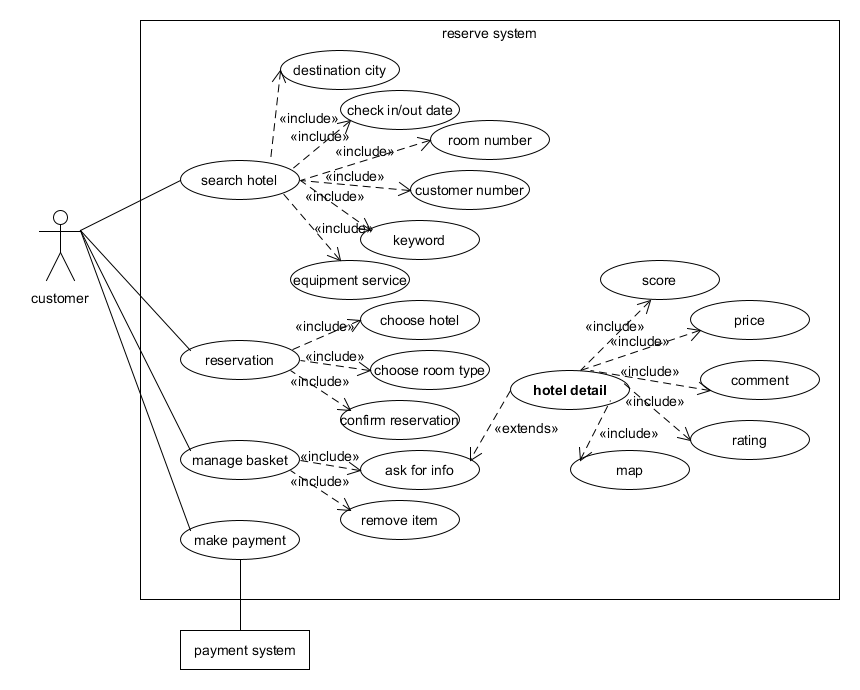
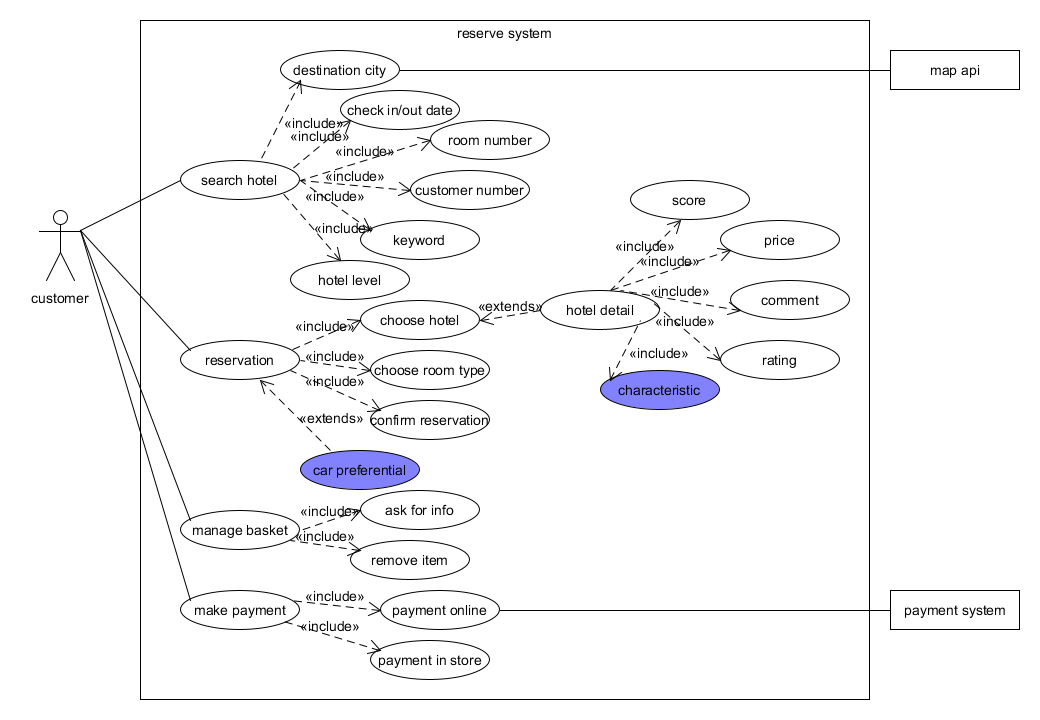
update

diff --git a/hw6.md b/hw6.md
@@ -21,12 +21,12 @@
   	一共有三种格式：
 
   	- 简便格式（Brief）
-  		- 通常是主要成功场景的简短一段总结。
-  		- 用于在早期的需求分析中，快速了解主题和范围。可能只需要几分钟来创建。
+    		- 通常是主要成功场景的简短一段总结。
+    		- 用于在早期的需求分析中，快速了解主题和范围。可能只需要几分钟来创建。
   	- 因果格式（Casual）
-  		- 非正式的段落格式。包含多种场景的多个段落。
+    		- 非正式的段落格式。包含多种场景的多个段落。
   	- 完整格式（Fully）
-  		- 所有的步骤和变化都写得很详细，并由支持部分，如先决条件和成功保证。
+    		- 所有的步骤和变化都写得很详细，并由支持部分，如先决条件和成功保证。
 
 4. 对于复杂业务，为什么编制完整用例非常难？
 
@@ -47,14 +47,14 @@
 
   	1. 确定研讨的系统
   		- 使用用例图 System框 表示一个待研究的系统
-  		- 正确命名系统或子系统
+    		- 正确命名系统或子系统
   	2. 识别 Actors
   		- 识别使用系统的主要参与者（primary actors）/角色(roles)
-  		- 识别系统依赖的外部系统
+    		- 识别系统依赖的外部系统
   	3. 识别用例（服务）
   		- 识别用户级别用例（user goal level）
-  		- 识别子功能级别的用例（sub function level）
-  		- 建立 Actor 和 Use Cases 之间的关联
+    		- 识别子功能级别的用例（sub function level）
+      		- 建立 Actor 和 Use Cases 之间的关联
 
 8. 用例图给利益相关人与开发者的价值有哪些？
 
@@ -78,25 +78,53 @@
 
 - 选择2-3个你熟悉的类似业务的在线服务系统（或移动 APP），如定旅馆（携程、去哪儿等）、定电影票、背单词APP等，分别绘制它们用例图。并满足以下要求：
 
-	- 请使用用户的视角，描述用户目标或系统提供的服务
-	- 粒度达到子用例级别，并用 include 和 exclude 关联它们
-	- 请用色彩标注出你认为创新（区别于竞争对手的）用例或子用例
-	- 尽可能识别外部系统和服务
+  - 请使用用户的视角，描述用户目标或系统提供的服务
+  - 粒度达到子用例级别，并用 include 和 exclude 关联它们
+  - 请用色彩标注出你认为创新（区别于竞争对手的）用例或子用例
+  - 尽可能识别外部系统和服务
 
-	根据携程订旅馆、星火英语背单词的业务，绘制以下用例图：
+  根据携程订旅馆、星火英语背单词的业务，绘制以下用例图：
 
-	1. 携程定旅馆
+  1. 携程定旅馆
 
-		![week6_携程](/Pictures/week6_xiecheng.png)
+  	![week6_携程](/Pictures/week6_xiecheng.png)
 
-	2. 星火英语背单词
+  2. 星火英语背单词
 
-		![week6_星火英语背单词](/Pictures/week6_xinghuoyingyu.png)
+  	![week6_星火英语背单词](/Pictures/week6_xinghuoyingyu.png)
 
 - 然后，回答下列问题：
 
-	1. 为什么相似系统的用例图是相似的？
-	2. 如果是定旅馆业务，请对比 Asg_RH 用例图，简述如何利用不同时代、不同地区产品的用例图，展现、突出创新业务和技术
-	3. 如何利用用例图定位创新思路（业务创新、或技术创新、或商业模式创新）在系统中的作用
-	4. 请使用 SCRUM 方法，选择一个用例图，编制某定旅馆开发的需求（backlog）开发计划表
-	5. 根据任务4，参考 [使用用例点估算软件成本](https://www.ibm.com/developerworks/cn/rational/edge/09/mar09/collaris_dekker/index.html)，给出项目用例点的估算
+  1. 为什么相似系统的用例图是相似的？
+
+  	因为用例图是用于描述系统功能的视图，而在相似系统中，通常功能上差别不大，所以用例图是相似的。
+
+  2. 如果是定旅馆业务，请对比 Asg_RH 用例图，简述如何利用不同时代、不同地区产品的用例图，展现、突出创新业务和技术
+
+  	- 添加创新业务。在原有用例图上添加创新业务，并且尽量处于较高级别，直接与用户关联。
+  	- 替换原有业务。根据不同时代、不同地区，用创新业务去替换原有落后不适用的业务。
+
+  3. 如何利用用例图定位创新思路（业务创新、或技术创新、或商业模式创新）在系统中的作用
+
+  	可以根据创新用例在用例图中所处的级别来判断。如果创新点处于较高级别的父用例，则重要性较高，反之则较低。
+
+  4. 请使用 SCRUM 方法，选择一个用例图，编制某定旅馆开发的需求（backlog）开发计划表
+
+  	根据以上携程定旅馆的用例图，编制以下需求backlog开发计划表
+
+  	|  ID  |   Name   | Imp  | Est  | Iter n |                         How to demo                          |          Notes           |
+  	| :--: | :------: | :--: | :--: | :----: | :----------------------------------------------------------: | :----------------------: |
+  	|  1   | 搜索旅馆 | 100  |  24  |   3    | 根据目的地、入住退房日期、房间数、住客数、酒店级别对旅馆进行筛选并显示 | 可根据旅馆评分等进行排序 |
+  	|  2   | 预定旅馆 |  90  |  18  |   2    |  旅馆详情介绍以及房间筛选与显示；房间选取；旅馆房间信息更新  |                          |
+  	|  3   | 管理订单 |  60  |  8   |   1    |                     预定信息的确认与移除                     |                          |
+  	|  4   | 支付订单 |  80  |  12  |   1    | 调用外部支付系统api；用户付款以及旅馆收款；用户房间信息的获取 |                          |
+
+  5. 根据任务4，参考 [使用用例点估算软件成本](https://www.ibm.com/developerworks/cn/rational/edge/09/mar09/collaris_dekker/index.html)，给出项目用例点的估算
+
+  	| 用例       | \# 事务 | \# 计算 | \# 原因 | UC 权重 |
+  	| ---------- | ------- | ------- | ------- | ------- |
+  	| 1 搜索旅馆 | 5       | 3       | 框架    | 平均    |
+  	| 2 预定旅馆 | 5       | 4       |         | 平均    |
+  	| 3 管理订单 | 1       | 1       |         | 简单    |
+  	| 4 支付订单 | 4       | 2       |         | 简单    |
+
